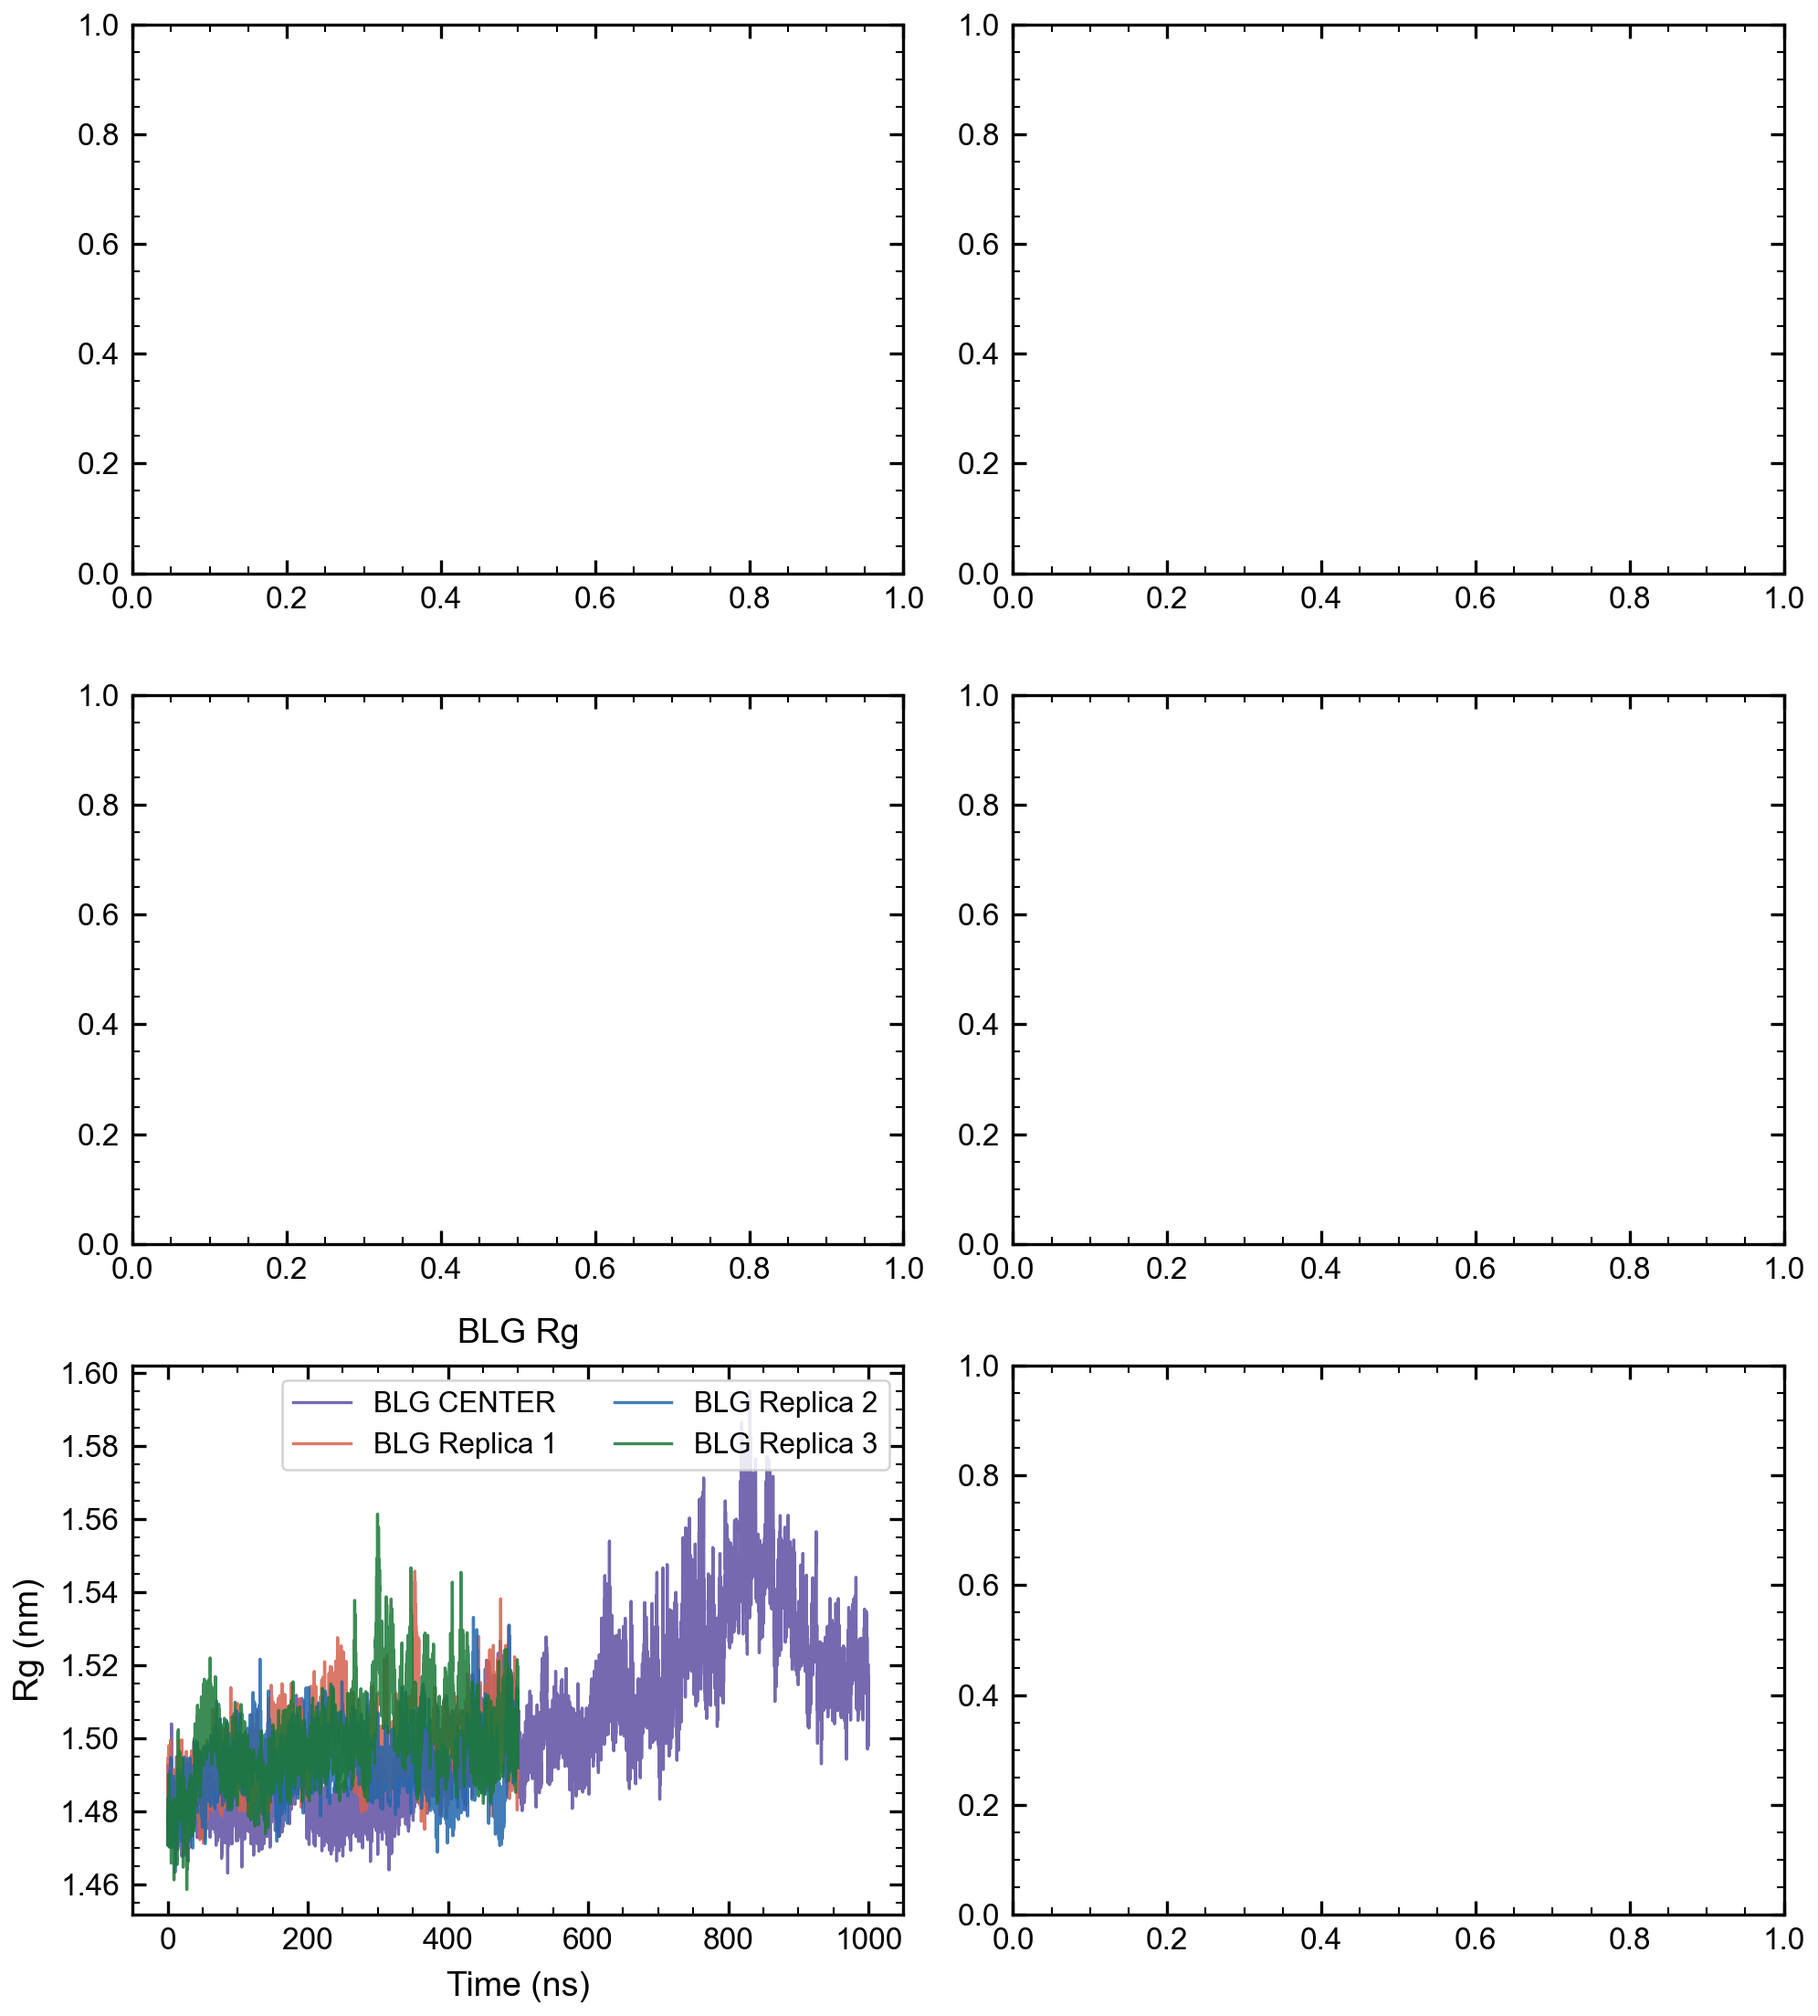
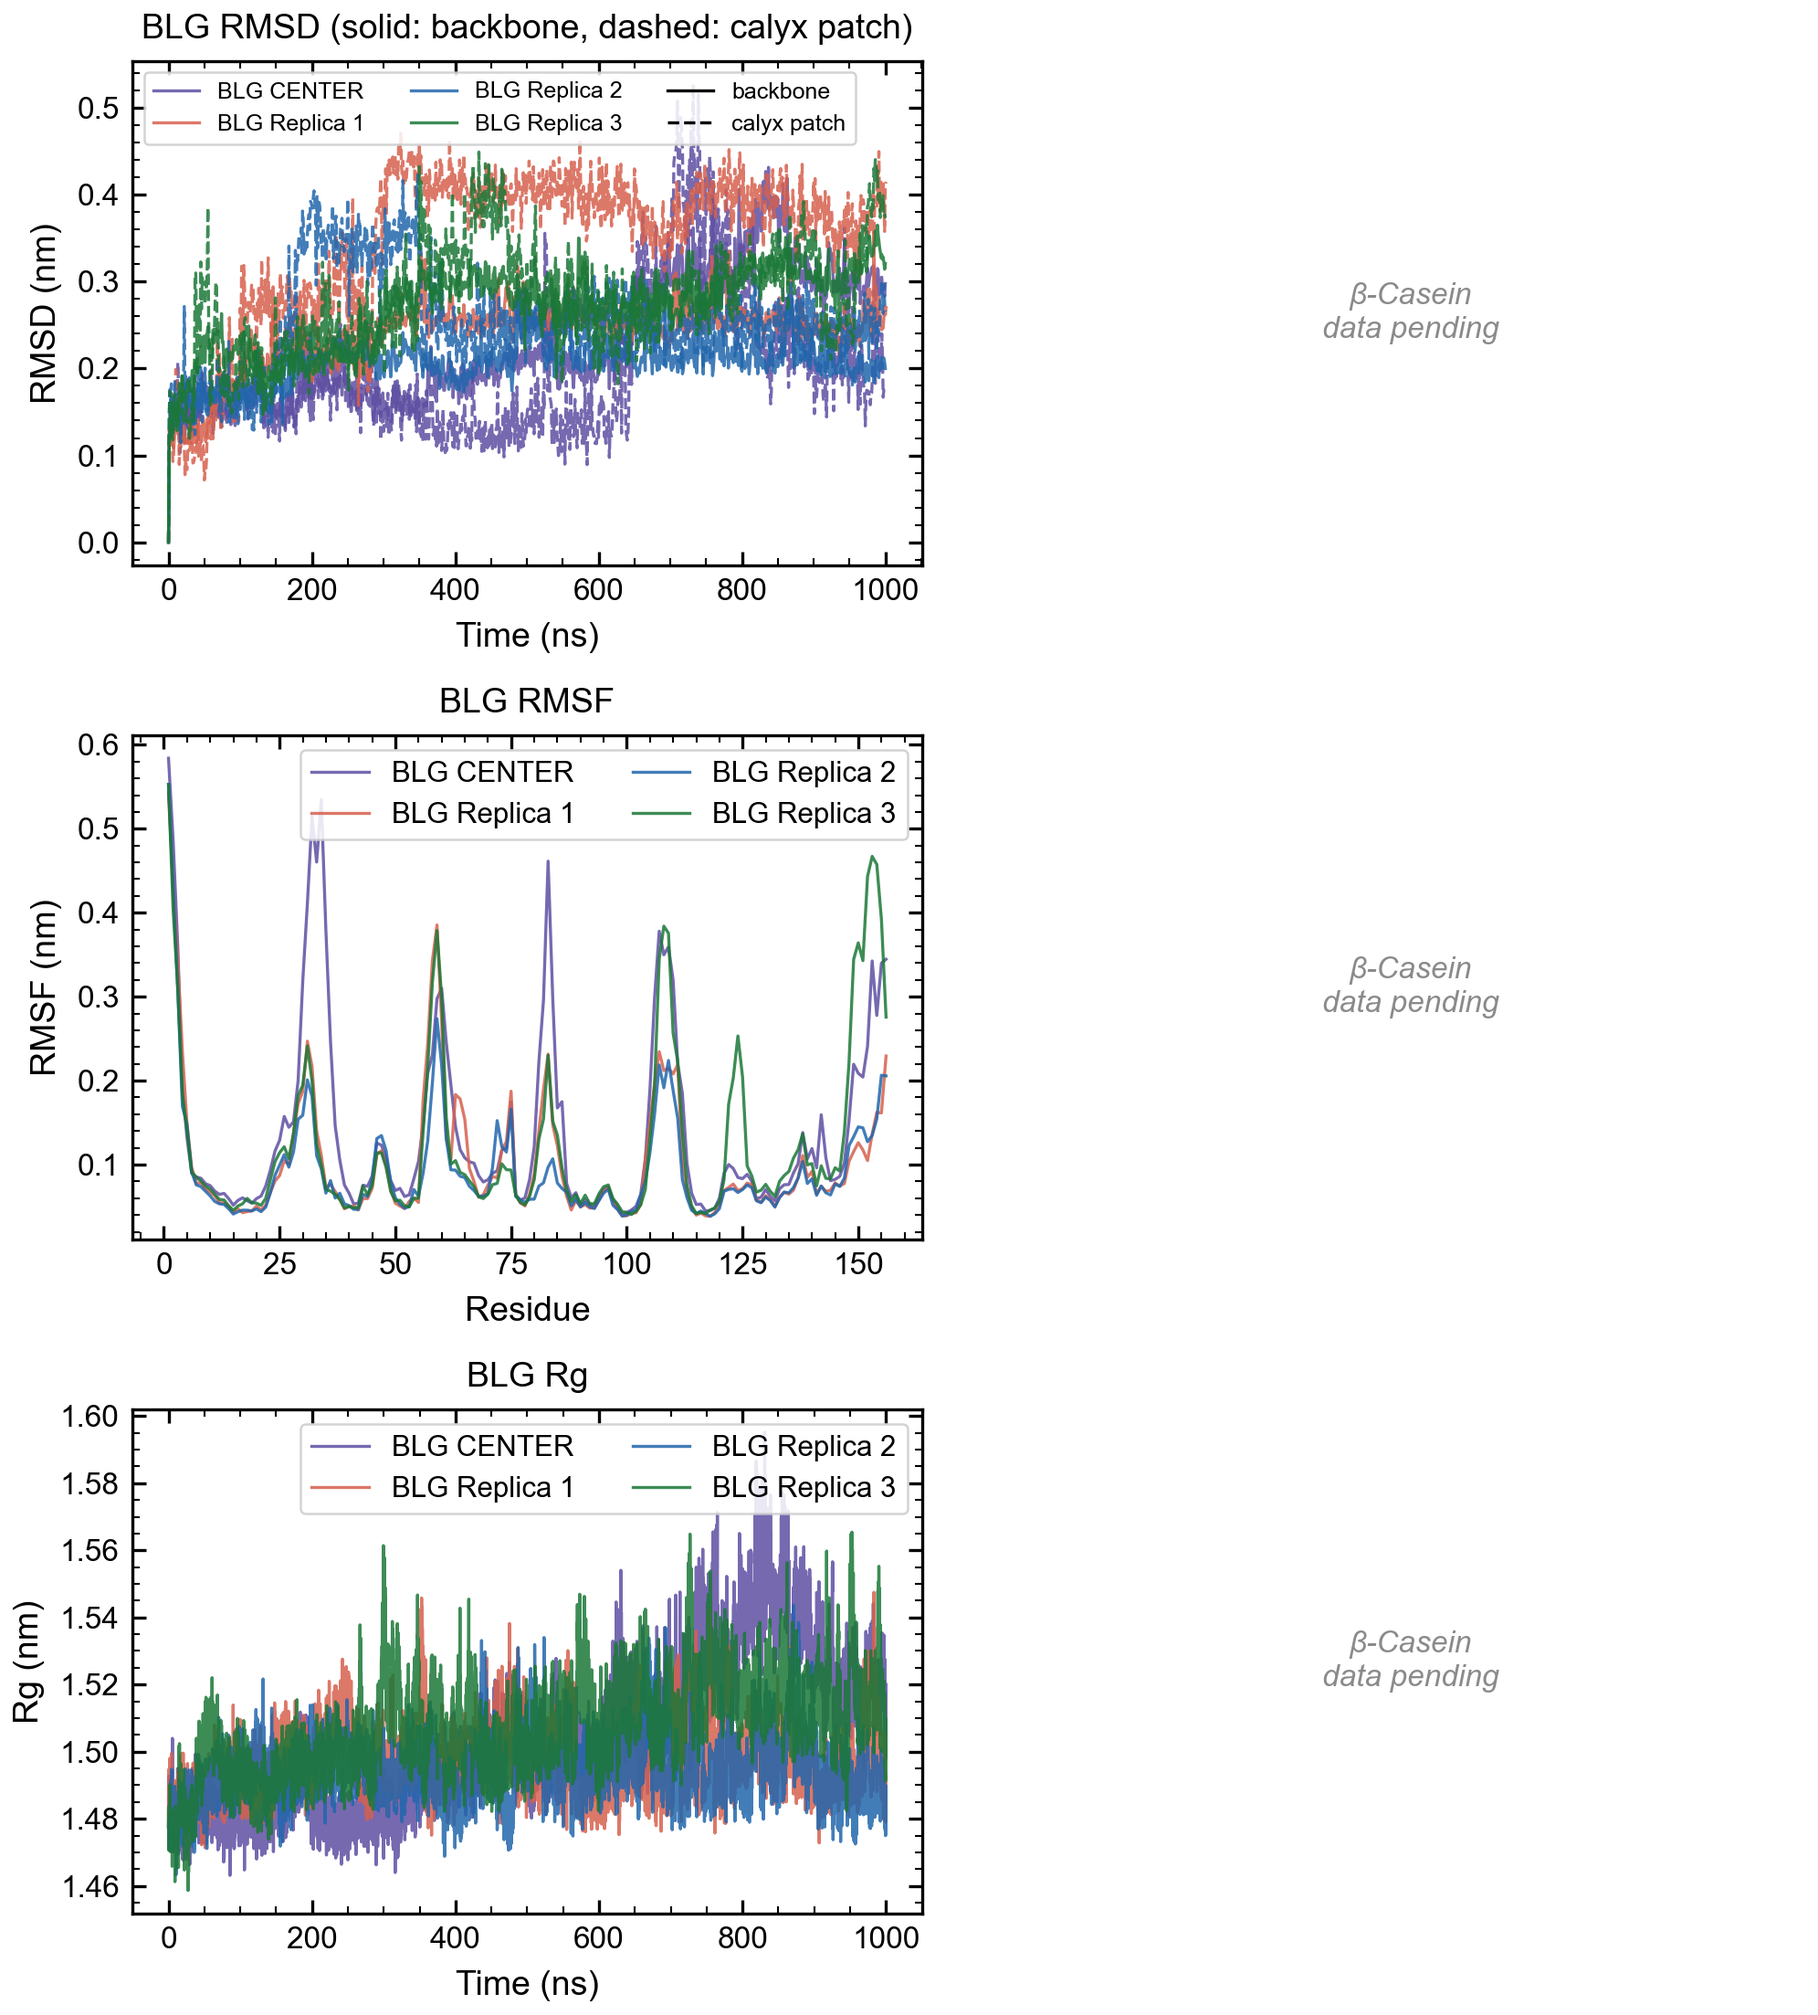
feat: Fig 2 dynamics — BLG RMSD + RMSF panels, CAS pending placeholders
Per-replica traces (not averaged); Rg panel now full 1000 ns for R1/R2/R3.

diff --git a/scripts/figures/combined_fig2_dynamics.py b/scripts/figures/combined_fig2_dynamics.py
@@ -39,11 +39,41 @@ ax.set_xlabel("Time (ns)")
 ax.set_ylabel("Rg (nm)")
 ax.legend(loc="upper right", ncol=2)
 ax.set_title("BLG Rg", fontsize=9)
-# ===== TODO: RMSD panel (axes[0, 0]) =====
+# ===== RMSD panel (axes[0, 0]) =====
+# Solid = whole-backbone, dashed = calyx patch. Per-replica traces, NOT averaged:
+# R1's patch RMSD steps up permanently after its longest contact event
+# (362-419.5 ns), a real rearrangement that a mean would hide.
+ax = axes[0, 0]
+for run in SPECIES["BLG"]["replicas"]:
+    d = load_analysis("BLG", "rmsd", run)
+    ax.plot(d["time_ns"], d["rmsd_backbone"], color=run_color(run),
+            lw=0.8, alpha=0.85, label=run_label("BLG", run))
+    ax.plot(d["time_ns"], d["rmsd_patch"], color=run_color(run),
+            lw=0.8, alpha=0.85, ls="--")
+ax.plot([], [], color="k", lw=0.8, label="backbone")
+ax.plot([], [], color="k", lw=0.8, ls="--", label="calyx patch")
+ax.set_xlabel("Time (ns)")
+ax.set_ylabel("RMSD (nm)")
+ax.legend(loc="upper left", ncol=3, fontsize=6)
+ax.set_title("BLG RMSD (solid: backbone, dashed: calyx patch)", fontsize=9)
 
-# ===== TODO: RMSF panel (axes[1, 0]) =====
+# ===== RMSF panel (axes[1, 0]) =====
+# Per-residue Calpha RMSF caches live in results/gate_analysis/rmsf_<label>.*.npy
+ax = axes[1, 0]
+for run in SPECIES["BLG"]["replicas"]:
+    tag = run.lower()
+    resids = np.load(ROOT / "results" / "gate_analysis" / f"rmsf_{tag}.resids.npy")
+    rmsf = np.load(ROOT / "results" / "gate_analysis" / f"rmsf_{tag}.rmsf.npy")
+    ax.plot(resids, rmsf, color=run_color(run), lw=0.8, alpha=0.85,
+            label=run_label("BLG", run))
+ax.set_xlabel("Residue")
+ax.set_ylabel("RMSF (nm)")
+ax.legend(loc="upper right", ncol=2)
+ax.set_title("BLG RMSF", fontsize=9)
 
-# ===== TODO: CAS pending panels (axes[0,1], axes[1,1], axes[2,1]) =====
+# ===== CAS pending panels (axes[0,1], axes[1,1], axes[2,1]) =====
+for r in range(3):
+    pending_panel(axes[r, 1], "CAS")
 
 fig.tight_layout()
 out = ROOT / "results" / "figures" / "paper" / "PAPER_FIG2_DYNAMICS.png"
